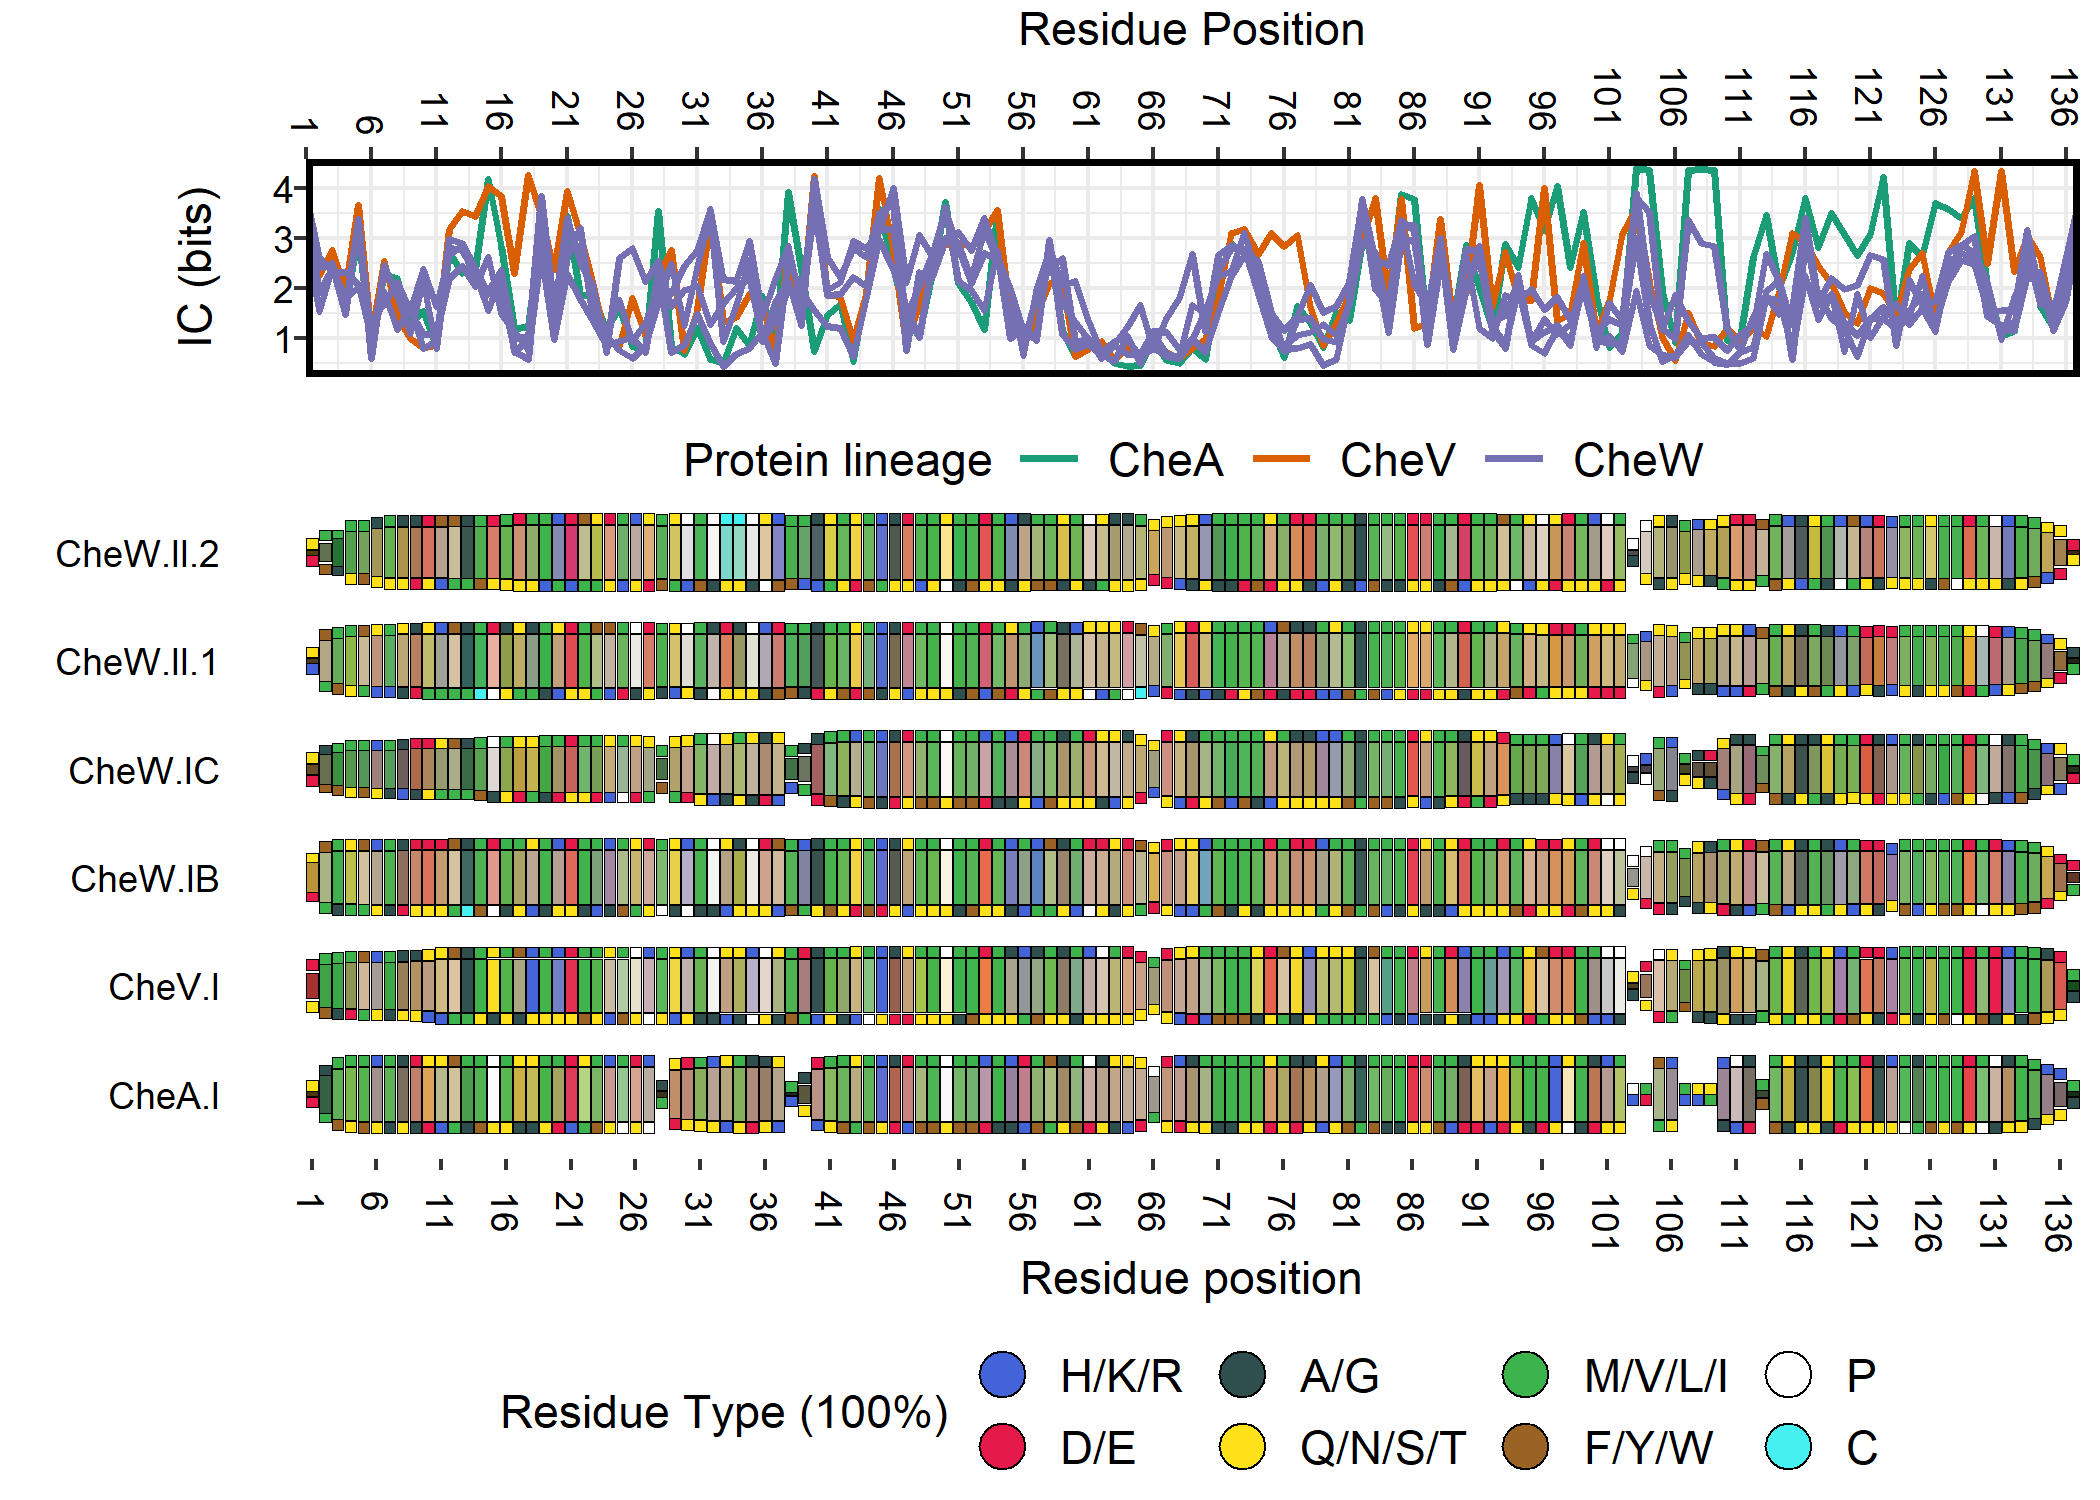
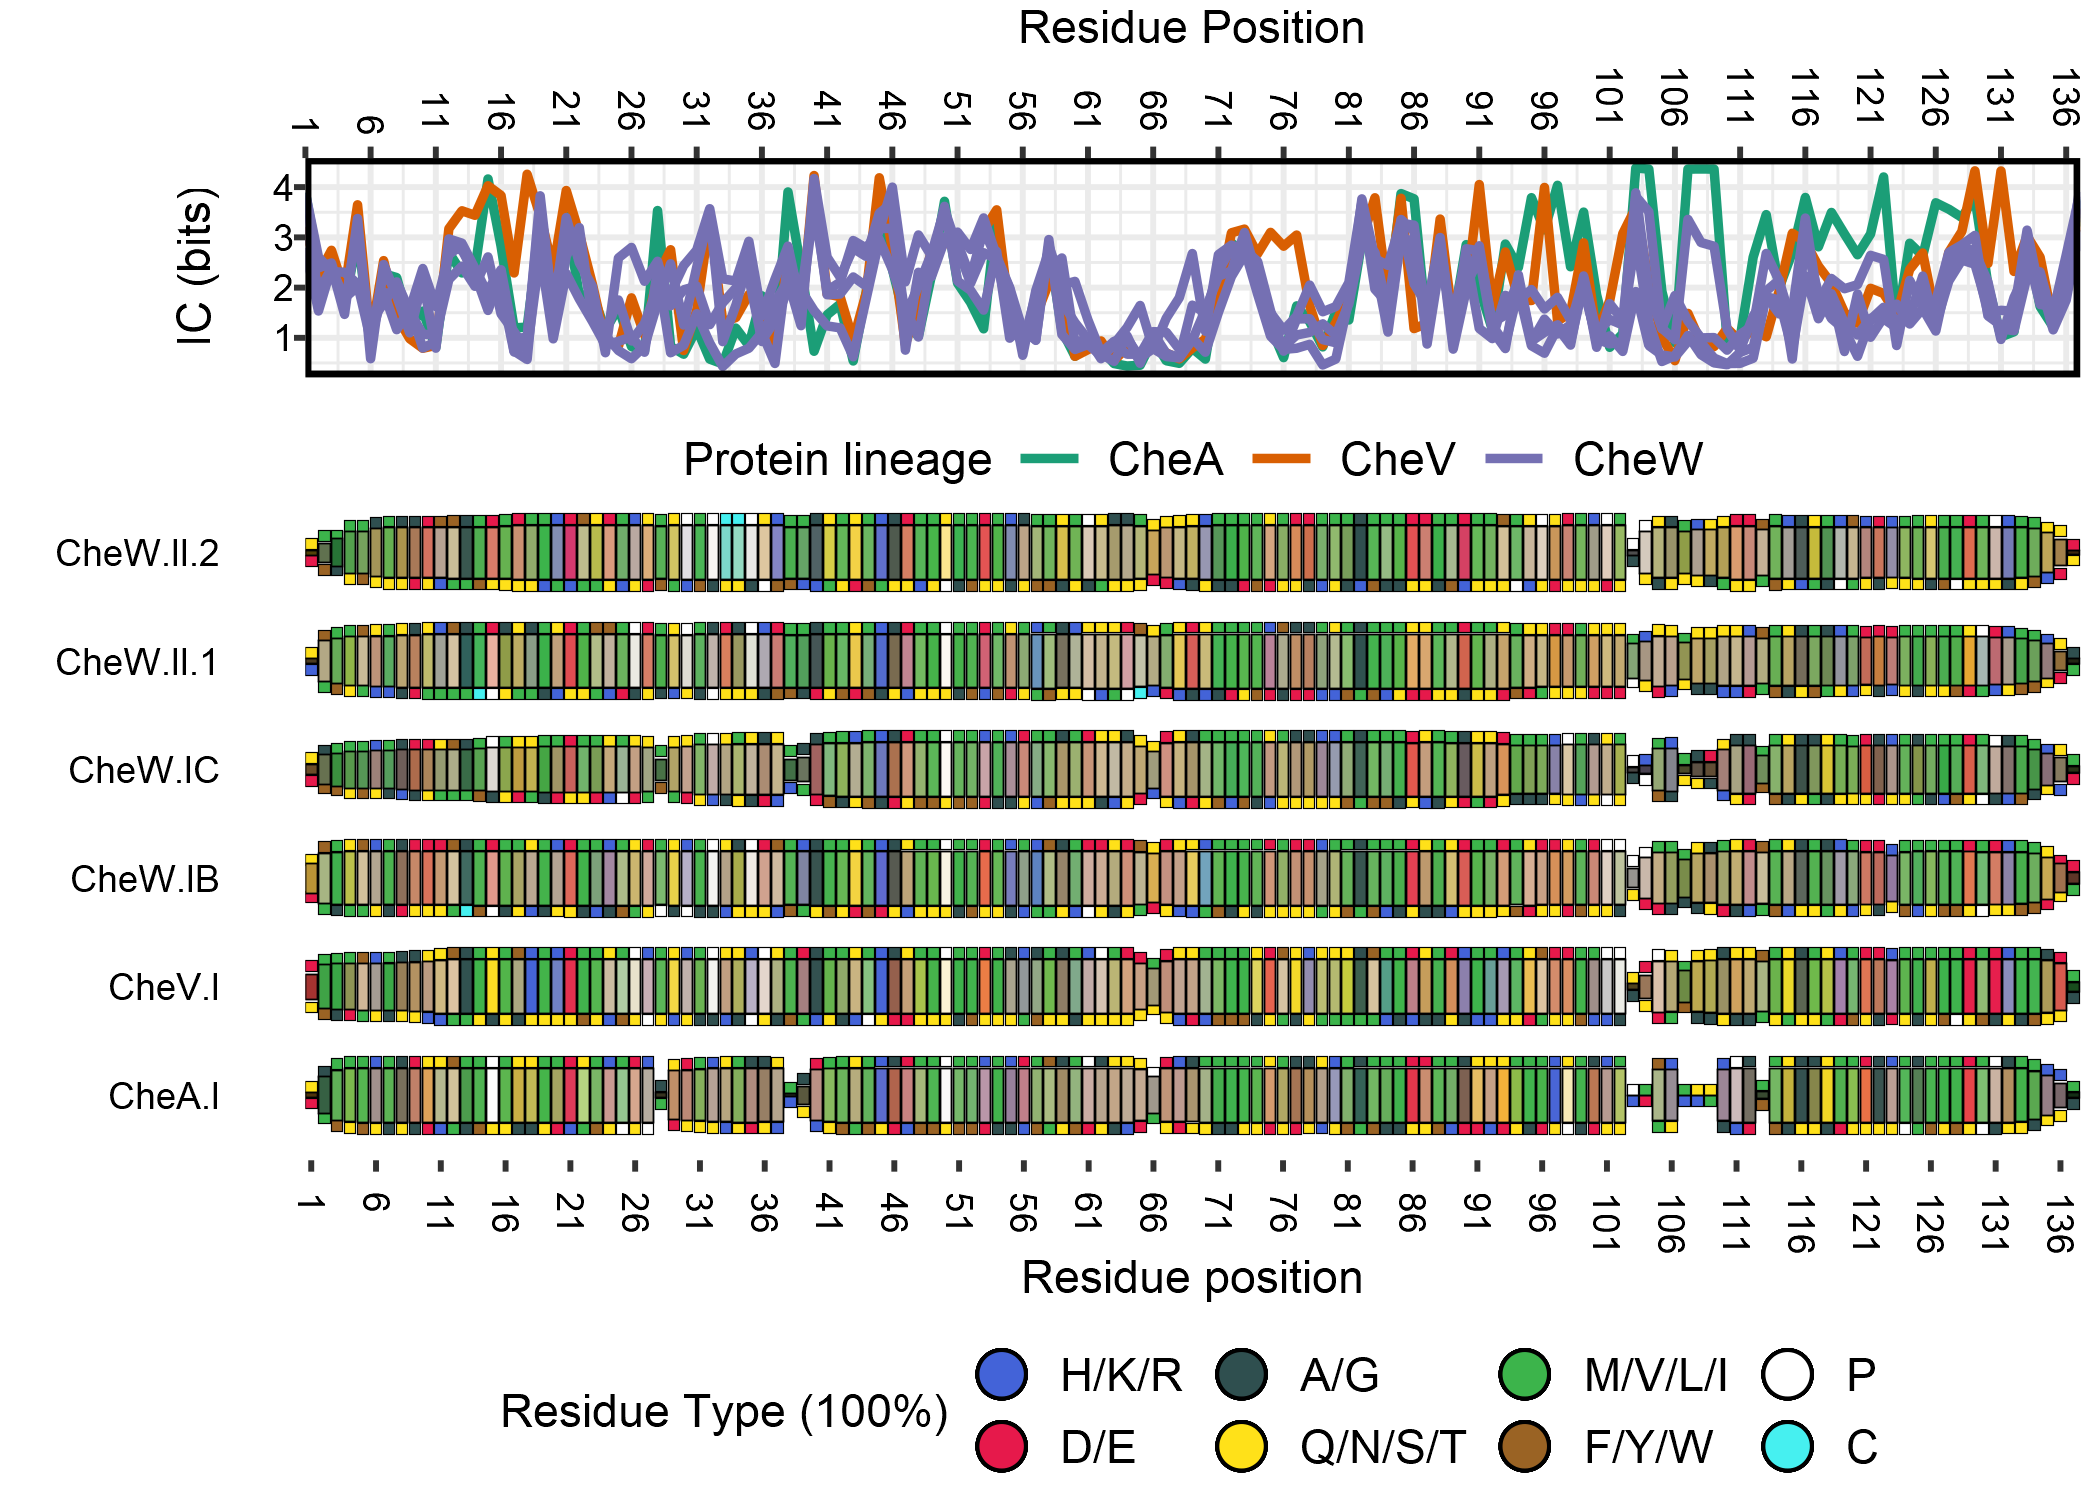
Updated the README file, also modified SimpLogoPlot() to increase border around geom_tiles for all 3 boxes, making them equal at 0.2.

diff --git a/README.md b/README.md
@@ -16,8 +16,7 @@ comparisons with minimized graphical clutter.
 
 ## Installation
 
-You can install the released version of SimpLogo from Github using the
-devtools package:
+You can install SimpLogo from Github using the devtools package:
 
 ``` r
 library(devtools)
@@ -39,6 +38,7 @@ library(SimpLogo)
 
 ## use available files (.fa) in the sample_alignments directory
 ## we're only using 5 alignments for this example, but the 23 different CheW-containing architectures referenced in the publication can be found in the chew_alignments directory
+## all alignments must be of equal length (for the example, all sequences were aligned simultaneously to the CheW-like Pfam HMM, then split into separate sequence groups)
 
 ## check filenames
 seq.files <- list.files(path="sample_alignments/", 
@@ -59,8 +59,8 @@ seq.files
 ## make sure you order them correctly (check the filenames, like above)
 groups <- c("CheA.I", "CheV.I", "CheW.IB", "CheW.IC", "CheW.II.1", "CheW.II.2")
 
-## manually specify lineages (for grouping during plotting)
-## must have 1 lineage assignment for every seq group being analyzed
+## manually specify lineages/seq groups (for grouping during plotting)
+## must have 1 assignment for every seq alignment/group being analyzed
 lineage.assignments <- c("CheA","CheV","CheW","CheW","CheW","CheW")
 
 results <- SimpLogo("sample_alignments/",
@@ -107,17 +107,17 @@ plot <- SimpLogoPlot(results, plot.ic = TRUE)
 It produces a list of 3 graphical results, the primary SimpLogo plot
 (the thing with the colored boxes) as a ggplot2 object, shown here:
 
-<img src="man/figures/README-fig2-1.png" style="display: block; margin: auto;" />
+<img src="man/figures/README-fig2-1.svg" width="100%" style="display: block; margin: auto;" />
 
 A line graph of position-wise information content (in bits) as a ggplot2
 object, shown here:
 
-<img src="man/figures/README-fig3-1.png" style="display: block; margin: auto;" />
+<img src="man/figures/README-fig3-1.svg" width="100%" style="display: block; margin: auto;" />
 
 And a final combined plot (for convenience) created using the
 plot\_grid() function of cowplot, shown here:
 
-<img src="man/figures/README-fig4-1.png" style="display: block; margin: auto;" />
+<img src="man/figures/README-fig4-1.svg" width="100%" style="display: block; margin: auto;" />
 
 ### Manually editing individual graphs
 
@@ -136,7 +136,7 @@ plot$primary.plot +
         plot.margin = margin(t=2)) ## to accomodate new title
 ```
 
-<img src="man/figures/README-fig5-1.png" style="display: block; margin: auto;" />
+<img src="man/figures/README-fig5-1.svg" width="100%" style="display: block; margin: auto;" />
 
 ### Recombining plots
 
@@ -150,7 +150,7 @@ final.plot <- cowplot::plot_grid(plot$ic.plot, plot$primary.plot,
 final.plot
 ```
 
-<img src="man/figures/README-fig6-1.png" style="display: block; margin: auto;" />
+<img src="man/figures/README-fig6-1.svg" width="100%" style="display: block; margin: auto;" />
 
 ### Renumbering alignment positions
 
@@ -164,7 +164,7 @@ plot2 <- SimpLogoPlot(results, plot.ic = TRUE, position.start = 18)
 plot2$final.plot
 ```
 
-<img src="man/figures/README-fig7-1.png" style="display: block; margin: auto;" />
+<img src="man/figures/README-fig7-1.svg" width="100%" style="display: block; margin: auto;" />
 
 ### Reordering sequence groups/architectures
 
@@ -179,10 +179,43 @@ plot3 <- SimpLogoPlot(results2, plot.ic = TRUE, position.start = 18)
 plot3$final.plot
 ```
 
-<img src="man/figures/README-fig9-1.png" style="display: block; margin: auto;" />
+<img src="man/figures/README-fig9-1.svg" width="100%" style="display: block; margin: auto;" />
+
+## Output
+
+The output of SimpLogo() is a dataframe with 10 fields:
+
+  - **color**: blended final color for main tile (in hexadecimal)
+  - **position**: position in alignment (starting from 1)
+  - **gap.freq**: frequency of gaps in alignment at position (1 = 100%)
+  - **info.content**: estimated information content (in bits) at
+    position from alignment
+  - **top.type**: the most abundant residue type at the given position
+  - **secondary.type**: the second most abundant residue type at the
+    given position
+  - **top.color**: idealized (100%) color for the most abundant residue
+    type (in hexadecimal)
+  - **secondary.color**: idealized (100%) color for the second most
+    abundant residue type (in hexadecimal)
+  - **arch**: sequence group assignment (taken from filenames if not s)
+  - **lineage**: higher level group assignment (useful for plotting)
+  - **residue**: residue number (used for plotting function)
+
+The output of SimpLogoPlot() is a list containing 3 plot objects:
+
+  - **final.plot**: merged SimpLogo and IC plot (not a true ggplot2
+    object)
+  - **primary.plot**: main SimpLogo plot (editable ggplot2 object)
+  - **ic.plot**: line graph of estimated information content (editable
+    ggplot2 object; NULL if plot.ic = FALSE)
 
 ## To do list
 
 More customization options. Possibly custom color palette options. Add
 more complex instances in example section, including highlighting
 specific positions, etc.
+
+## License information
+
+This package is licensed under GPL3 - please refer to LICENSE.md for
+more details
